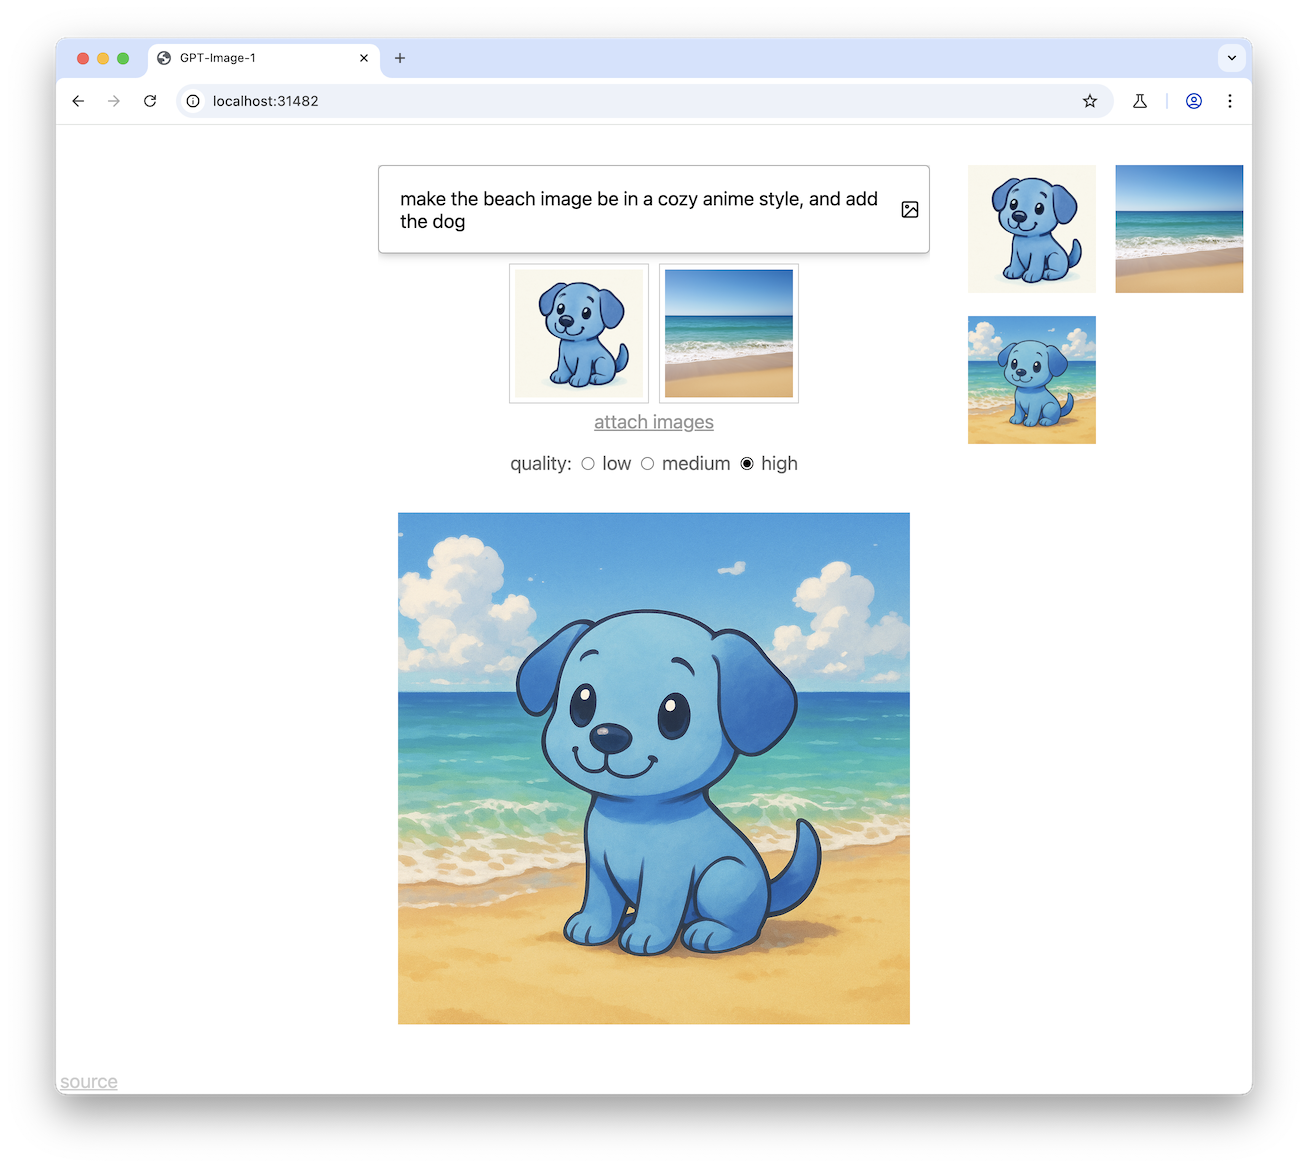
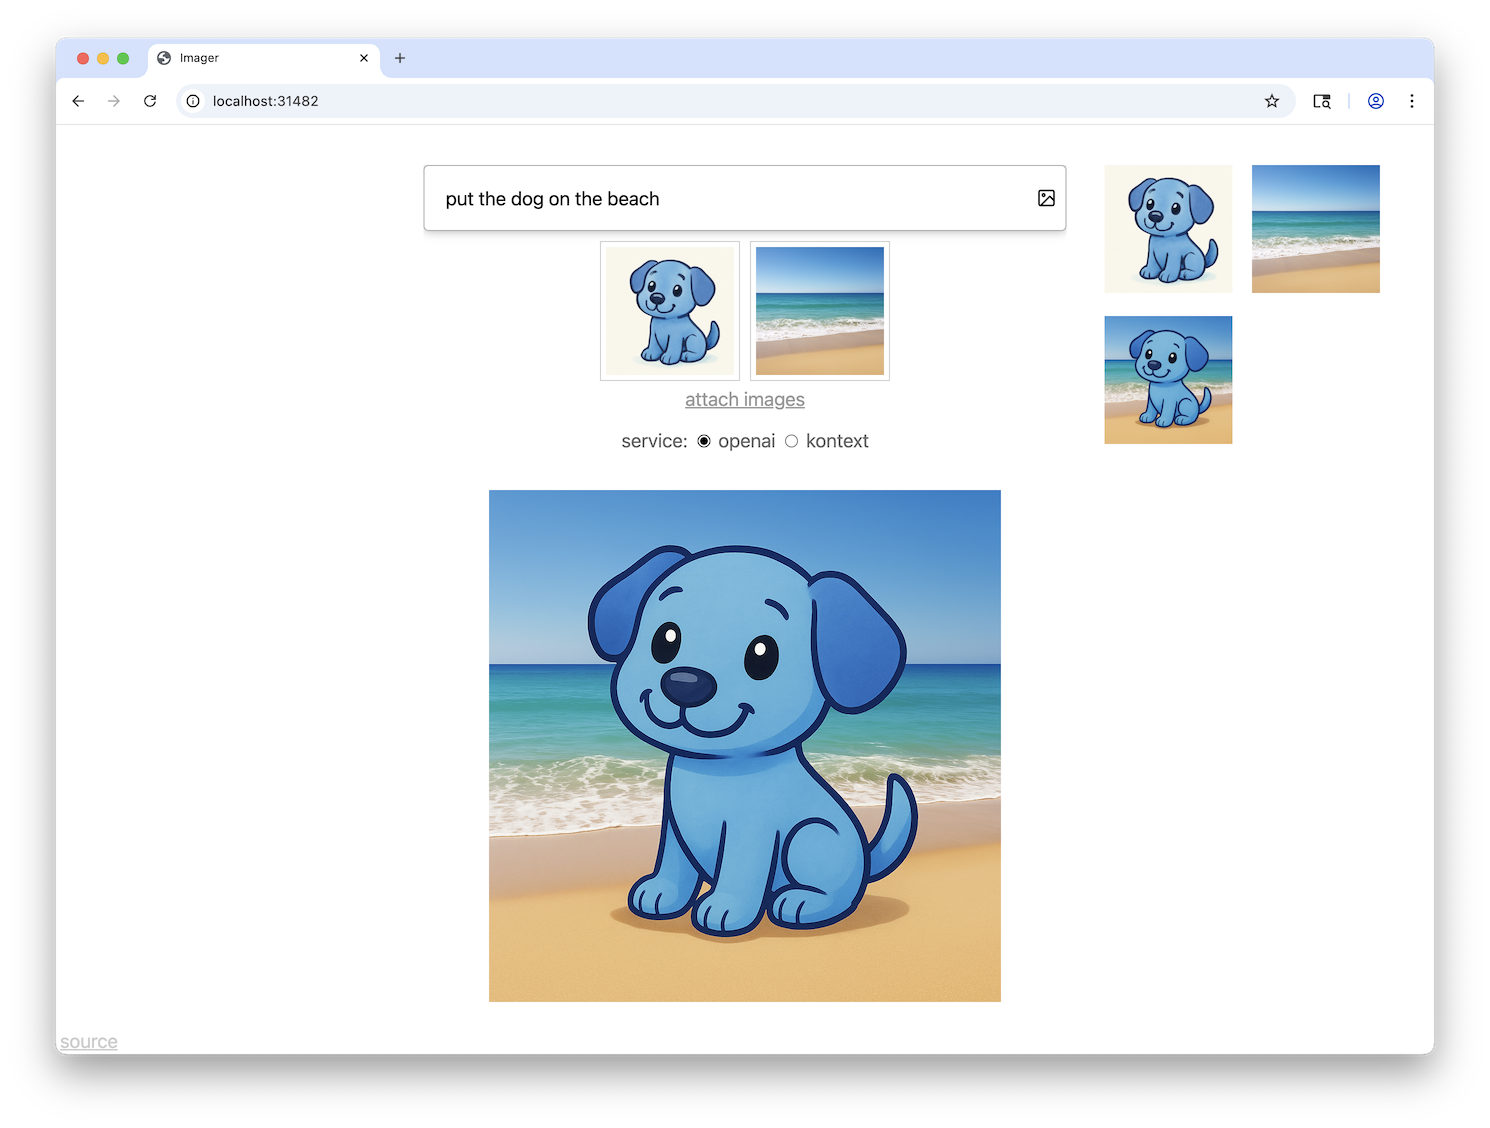
support for kontext

Changed region(s): [[0.3058, 0.4344, 0.7034, 0.8998], [0.2752, 0.0621, 0.9786, 0.9309], [0.0306, 0.031, 0.3058, 0.9619]]

diff --git a/page.js b/page.js
@@ -44,7 +44,7 @@ let removeActiveImage = () => {
 };
 
 let activeImg = null;
-function addHistoryItem(blob, prompt, ts, quality) {
+function addHistoryItem(blob, prompt, ts, service) {
   let url = URL.createObjectURL(blob);
   let box = document.createElement('span');
   box.classList.add('gallery-box');
@@ -58,7 +58,7 @@ function addHistoryItem(blob, prompt, ts, quality) {
 
   img.addEventListener('click', () => {
     activeImg = img;
-    modal(url, prompt, quality);
+    modal(url, prompt, service);
   });
 
   box.append(img);
@@ -103,7 +103,7 @@ function addHistoryItem(blob, prompt, ts, quality) {
   document.querySelector('.gallery').append(box);
 }
 
-function modal(url, prompt, quality) {
+function modal(url, prompt, service) {
   let modal = document.querySelector('.history-modal');
 
   let contents = modal.querySelector('.modal-contents');
@@ -114,13 +114,13 @@ function modal(url, prompt, quality) {
   contents.append(p);
 
   let p2 = document.createElement('p');
-  p2.innerText = `(quality: ${quality})`;
+  p2.innerText = `(service: ${service})`;
   contents.append(p2);
 
   let img = document.createElement('img');
   img.src = url;
-  img.width = 512;
-  img.height = 512;
+  img.style.maxWidth = '512px';
+  img.style.maxHeight = '512px';
   img.alt = prompt;
   contents.append(img);
 
@@ -157,6 +157,22 @@ async function submit() {
   let prompt = inputEle.value.trim();
   if (prompt === '') return;
 
+  let service = document.querySelector('input[name="service"]:checked').value;
+
+  localStorage.setItem('dalle-ui-service', service);
+
+  if (service === 'kontext' && inputImages.length !== 1) {
+    let errorModal = document.querySelector('.service-error-modal');
+    let errorMessage = document.querySelector('#service-error-message');
+    if (inputImages.length === 0) {
+      errorMessage.innerText = 'Kontext only does image editing; you need to attach an image.';
+    } else {
+      errorMessage.innerText = `Kontext only supports a single image as input.`;
+    }
+    errorModal.showModal();
+    return;
+  }
+
   working = true;
   inputEle.disabled = true;
 
@@ -171,14 +187,12 @@ async function submit() {
   let spinner = document.querySelector('.spinner');
   spinner.style.display = 'flex';
 
-  let quality = document.querySelector('input[name="quality"]:checked').value;
-
   try {
     let ts = new Date().toISOString().replace(/:/g, '_');
     let body = new FormData();
     body.set('prompt', prompt);
     body.set('ts', ts);
-    body.set('quality', quality);
+    body.set('service', service);
     body.set('user', user);
     for (let image of inputImages) {
       body.append('images', image);
@@ -195,9 +209,9 @@ async function submit() {
       throw new Error(message);
     }
 
-    let { b64_json } = res.data[0];
+    let { b64 } = res;
 
-    let data = base64ToUint8Array(b64_json);
+    let data = base64ToUint8Array(b64);
     let blob = new Blob([data], { type: 'image/png' });
     let url = URL.createObjectURL(blob);
     let img = document.createElement('img');
@@ -207,11 +221,11 @@ async function submit() {
 
     output.prepend(img);
 
-    addHistoryItem(blob, prompt, ts, quality);
+    addHistoryItem(blob, prompt, ts, service);
 
     await save([opfsDir], `${ts}--image.png`, data);
     await save([opfsDir], `${ts}--prompt.txt`, new TextEncoder().encode(prompt));
-    await save([opfsDir], `${ts}--settings.txt`, new TextEncoder().encode(`quality: ${quality}\n`));
+    await save([opfsDir], `${ts}--settings.txt`, new TextEncoder().encode(`service: ${service}\n`));
   } catch (e) {
     console.error(e);
     bq.innerText = 'ERROR: ' + e.message;
@@ -226,6 +240,14 @@ async function submit() {
 let inputImages = [];
 
 addEventListener('DOMContentLoaded', async () => {
+  let savedService = localStorage.getItem('dalle-ui-service');
+  if (savedService) {
+    let serviceRadio = document.querySelector(`input[name="service"][value="${savedService}"]`);
+    if (serviceRadio) {
+      serviceRadio.checked = true;
+    }
+  }
+
   // history dialog
 
   let history = document.querySelector('.history-modal');
@@ -253,6 +275,15 @@ addEventListener('DOMContentLoaded', async () => {
   confirmDelete.querySelector('#confirm-delete').addEventListener('click', () => {
     confirmDelete.close();
     removeActiveImage();
+  });
+
+  // service error dialog
+
+  let serviceErrorModal = document.querySelector('.service-error-modal');
+  serviceErrorModal.addEventListener('click', dismiss(serviceErrorModal));
+
+  serviceErrorModal.querySelector('#service-error-ok').addEventListener('click', () => {
+    serviceErrorModal.close();
   });
 
   // API key dialog
@@ -337,10 +368,12 @@ addEventListener('DOMContentLoaded', async () => {
     }
     let image = await imageH.getFile();
     let prompt = await (await promptH.getFile()).text();
-    let settings = settingsH ? await (await settingsH.getFile()).text() : `quality: medium\n`;
-    let { quality } = settings.match(/quality: (?<quality>\w+)/).groups;
+    let settings = settingsH ? await (await settingsH.getFile()).text() : `service: openai\n`;
+    let serviceMatch = settings.match(/service: (?<service>\w+)/);
+    let qualityMatch = settings.match(/quality: (?<quality>\w+)/);
+    let service = serviceMatch ? serviceMatch.groups.service : (qualityMatch ? qualityMatch.groups.quality : 'openai');
 
-    addHistoryItem(image, prompt, ts, quality);
+    addHistoryItem(image, prompt, ts, service);
   }
 });
 

diff --git a/run.ts b/run.ts
@@ -3,13 +3,16 @@ import * as path from 'node:path';
 import express from 'express';
 import multer from 'multer';
 import OpenAI from 'openai';
+import Replicate, { type FileOutput } from 'replicate';
 
 let PORT = 31482; // 'oai' in base 36
 
 let SAVE_OUTPUTS = true; // save outputs locally
 
 let OPENAI_API_KEY = fs.readFileSync(path.join(import.meta.dirname, 'OPENAI_KEY.txt'), 'utf8').trim();
+let REPLICATE_API_KEY = fs.readFileSync(path.join(import.meta.dirname, 'REPLICATE_KEY.txt'), 'utf8').trim();
 let openai = new OpenAI({ apiKey: OPENAI_API_KEY });
+let replicate = new Replicate({ auth: REPLICATE_API_KEY });
 
 let ALLOWED_USERS = fs.readFileSync(path.join(import.meta.dirname, 'ALLOWED_USERS.txt'), 'utf8').split('\n').map(x => x.trim()).filter(x => x.length > 0);
 
@@ -40,7 +43,7 @@ app.post('/check-user', (req, res) => {
 });
 
 app.post('/image', multer({ storage: multer.memoryStorage() }).array('images'), async (req, res) => {
-  let { prompt, ts, quality, user } = req.body;
+  let { prompt, ts, service, user } = req.body;
   if (!ALLOWED_USERS.includes(user)) {
     res.status(403);
     res.send('unknown user');
@@ -50,26 +53,45 @@ app.post('/image', multer({ storage: multer.memoryStorage() }).array('images'), 
 
   if (SAVE_OUTPUTS) {
     fs.writeFileSync(path.join(outdir, `${ts}--prompt.txt`), prompt, 'utf8');
-    fs.writeFileSync(path.join(outdir, `${ts}--settings.txt`), `user: ${user}\nquality: ${quality}\n`, 'utf8');
+    fs.writeFileSync(path.join(outdir, `${ts}--settings.txt`), `user: ${user}\service: ${service}\n`, 'utf8');
   }
 
-  let result;
+  let image_base64: string;
   try {
-    if (Array.isArray(req.files) && req.files.length > 0) {
-      result = await openai.images.edit({
-        model: 'gpt-image-1',
-        prompt,
-        image: await Promise.all(req.files.map(f => OpenAI.toFile(f.buffer, f.originalname, { type: f.mimetype }))),
-        quality,
-      });
+    if (service === 'openai') {
+      let res;
+      if (Array.isArray(req.files) && req.files.length > 0) {
+        res = await openai.images.edit({
+          model: 'gpt-image-1',
+          prompt,
+          image: await Promise.all(req.files.map(f => OpenAI.toFile(f.buffer, f.originalname, { type: f.mimetype }))),
+          quality: 'high',
+        });
+      } else {
+        res = await openai.images.generate({
+          model: 'gpt-image-1',
+          prompt,
+          size: '1024x1024',
+          moderation: 'low',
+          quality: 'high',
+        });
+      }
+      image_base64 = res.data![0].b64_json!;
+    } else if (service === 'kontext') {
+      if (!Array.isArray(req.files) || req.files?.length !== 1) {
+        throw new Error('kontext expects exactly one image as input');
+      }
+      let f = req.files[0];
+      let res = await replicate.run('black-forest-labs/flux-kontext-pro', {
+        input: {
+          prompt,
+          input_image: `data:${f.mimetype};base64,${f.buffer.toString('base64')}`,
+        },
+      }) as FileOutput;
+      let blob = await res.blob();
+      image_base64 = Buffer.from(await blob.arrayBuffer()).toString('base64');
     } else {
-      result = await openai.images.generate({
-        model: 'gpt-image-1',
-        prompt,
-        size: '1024x1024',
-        moderation: 'low',
-        quality,
-      });
+      throw new Error(`unknown service ${service}`);
     }
   } catch (e) {
     console.log(e);
@@ -81,14 +103,12 @@ app.post('/image', multer({ storage: multer.memoryStorage() }).array('images'), 
   console.log('done');
   // console.log(result);
 
-  const image_base64 = result.data![0].b64_json!;
-
-  if (SAVE_OUTPUTS && result.data?.[0]?.b64_json) {
+  if (SAVE_OUTPUTS) {
     // Save the image to a file
     fs.writeFileSync(path.join(outdir, `${ts}--image.png`), Buffer.from(image_base64, 'base64'));
   }
 
-  res.json(result);
+  res.json({ b64: image_base64 });
 });
 
 app.listen(PORT);

diff --git a/index.html b/index.html
@@ -1,6 +1,6 @@
 <!DOCTYPE html>
 <meta charset="utf-8" />
-<title>GPT-Image-1</title>
+<title>Imager</title>
 <script src="page.js" defer></script>
 <style>
   :root {
@@ -278,6 +278,17 @@
   </div>
 </dialog>
 
+<dialog class="service-error-modal">
+  <div class="modal-contents">
+    <p id="service-error-message"></p>
+    <div class="confirm-buttons">
+      <form method="dialog">
+        <input type="button" value="OK" id="service-error-ok" autofocus />
+      </form>
+    </div>
+  </div>
+</dialog>
+
 <dialog class="api-key">
   Enter your <a href="https://platform.openai.com/api-keys">OpenAI API key</a>:<br />
   (only do this if you trust me or have reviewed the source!)<br /><br />
@@ -310,15 +321,12 @@
 
     <div class="settings">
       <div>
-        quality:
-        <input type="radio" id="low" name="quality" value="low">
-        <label for="low">low</label>
+        service:
+        <input type="radio" id="openai" name="service" value="openai" checked>
+        <label for="openai">openai</label>
 
-        <input type="radio" id="medium" name="quality" value="medium">
-        <label for="medium">medium</label>
-
-        <input type="radio" id="high" name="quality" value="high" checked>
-        <label for="high">high</label>
+        <input type="radio" id="kontext" name="service" value="kontext">
+        <label for="kontext">kontext</label>
       </div>
     </div>
 

diff --git a/README.md b/README.md
@@ -1,6 +1,6 @@
 # Simple DALL-E/gpt-image-1 UI
 
-A simple static webpage to wrap OpenAI's image-generating gpt-image-1 API. You can dig the DALL-E wrapper out of the commit history if you like the old one better.
+A simple static webpage to wrap OpenAI's image-generating gpt-image-1 API and the [image-editing FLUX.1 Kontext](https://replicate.com/black-forest-labs/flux-kontext-pro) from Replicate. You can dig the DALL-E wrapper out of the commit history if you like the old one better.
 
 ![screenshot](./screenshot.png)
 
@@ -12,12 +12,10 @@ Ensure you have a reasonably recent version of node installed. Then
 
 ```sh
 npm ci
-node run.mts
+node run.ts
 ```
 
 If you are using a version of node prior to 23.6.0, you will likely need to include `--experimental-strip-types` after the `node` command.
 
+You will need an OpenAI API key in `OPENAI_KEY.txt` and a Replicate API key in `REPLICATE_API_KEY`. If you don't care bout one or the other you can use an empty file and then just not submit requests to that one.
 
-## Implementation details
-
-History is stored in the [origin private file system](https://developer.mozilla.org/en-US/docs/Web/API/File_System_API/Origin_private_file_system).
